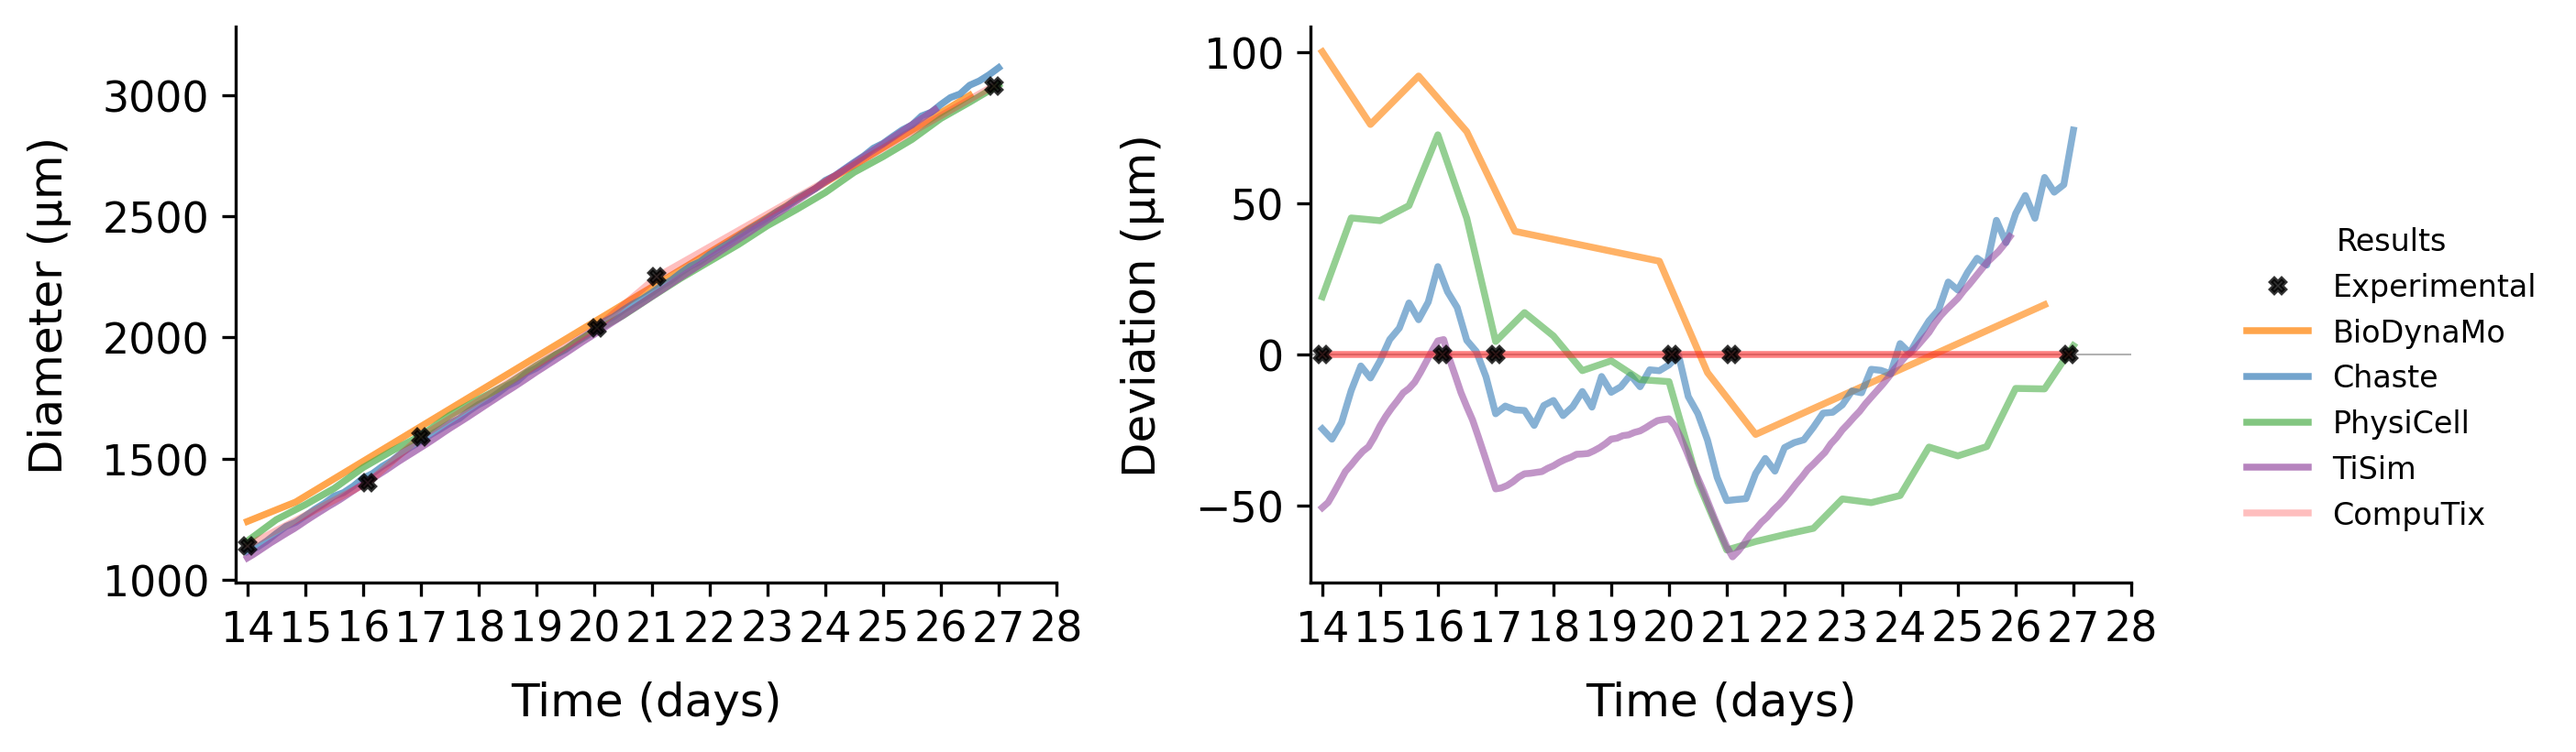
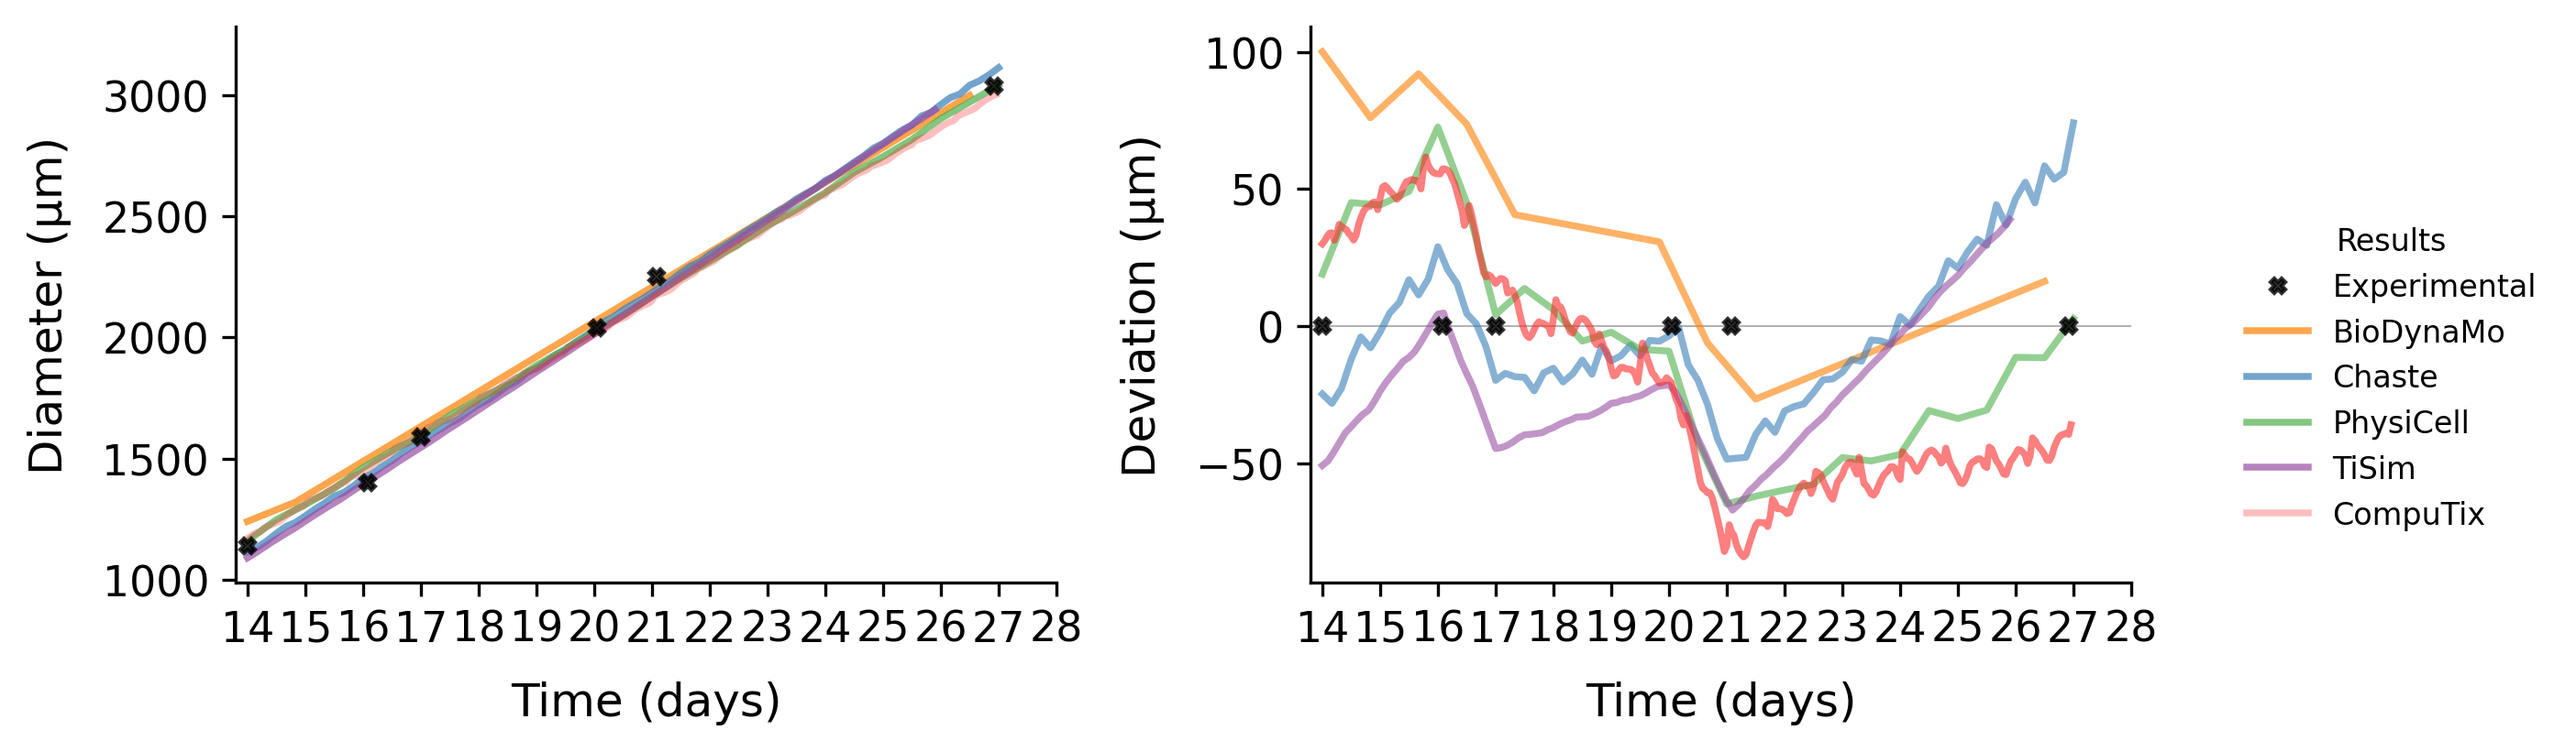
updating results of computix monolayer

diff --git a/ResultAnalysis/plot_scripts/plot_monolayer.py b/ResultAnalysis/plot_scripts/plot_monolayer.py
@@ -4,6 +4,7 @@ import matplotlib.pyplot as plt
 import re
 from scipy.interpolate import interp1d
 import os
+import yaml
 expe_dt = [336,386,408,481,506,646]
 expe_dt = [x/24. for x in expe_dt]
 expe_diam = [ 1140 , 1400 , 1590 , 2040 , 2250 , 3040 ]
@@ -41,19 +42,25 @@ df_pc = df_pc.rename(columns={df_pc.columns[0]: 'dt', df_pc.columns[1]: 'diam'})
 # Filter data to start from 14 days
 df_pc = df_pc[df_pc['dt'] >= 14]
 df_pc['Results'] = 'PhysiCell'
-
+print(df_pc)
 df_exp = pd.DataFrame(data=zip(expe_dt,expe_diam),columns=['dt','diam'])
 df_exp.insert(loc=2, column='Results', value='Experimental')
 
 df_biod = pd.DataFrame(data=zip(biodynamo_dt,biodynamo_diam),columns=['dt','diam'])
 df_biod.insert(loc=2, column='Results', value='BioDynaMo')
-file = "CompuTiX/monolayer/data/monolayer_growth.csv"
-df_compu = pd.read_csv(file, header=0)
+file = "CompuTiX/monolayer/results/monolayer.yaml"
+with open(file, "r") as f:
+    results = yaml.safe_load(f)
+
+t_results = np.array(results["time"]["values"]) / 24.  # To days
+d_results = np.array(results["d"]["values"])
+df_compu = pd.DataFrame(data=zip(t_results, d_results), columns=['dt', 'diam'])
+df_compu = df_compu[df_compu['dt'] >= 14]
+
 df_compu.insert(loc=2, column='Results', value='CompuTix')
-df_compu.rename(columns={'Total time (hours)': 'dt', 'Diameter (um)': 'diam'}, inplace=True)
-df_compu['dt'] /= 24  # Convert hours to days
+# df_compu['dt'] /= 24  # Convert hours to days
 
-
+print(df_compu)
 
 
 df_all = pd.concat([
@@ -194,7 +201,8 @@ for result in ['BioDynaMo', 'Chaste', 'PhysiCell', 'TiSim','CompuTix' ]:
     df = df_all[(df_all['Results'] == result) & (df_all['dt'] <= 27)]
     exp_values = exp_interp(df['dt'])
     deviations = df['diam'] - exp_values
-
+    print(result)
+    print(deviations)
     ax2.plot(
         df['dt'], 
         deviations,
